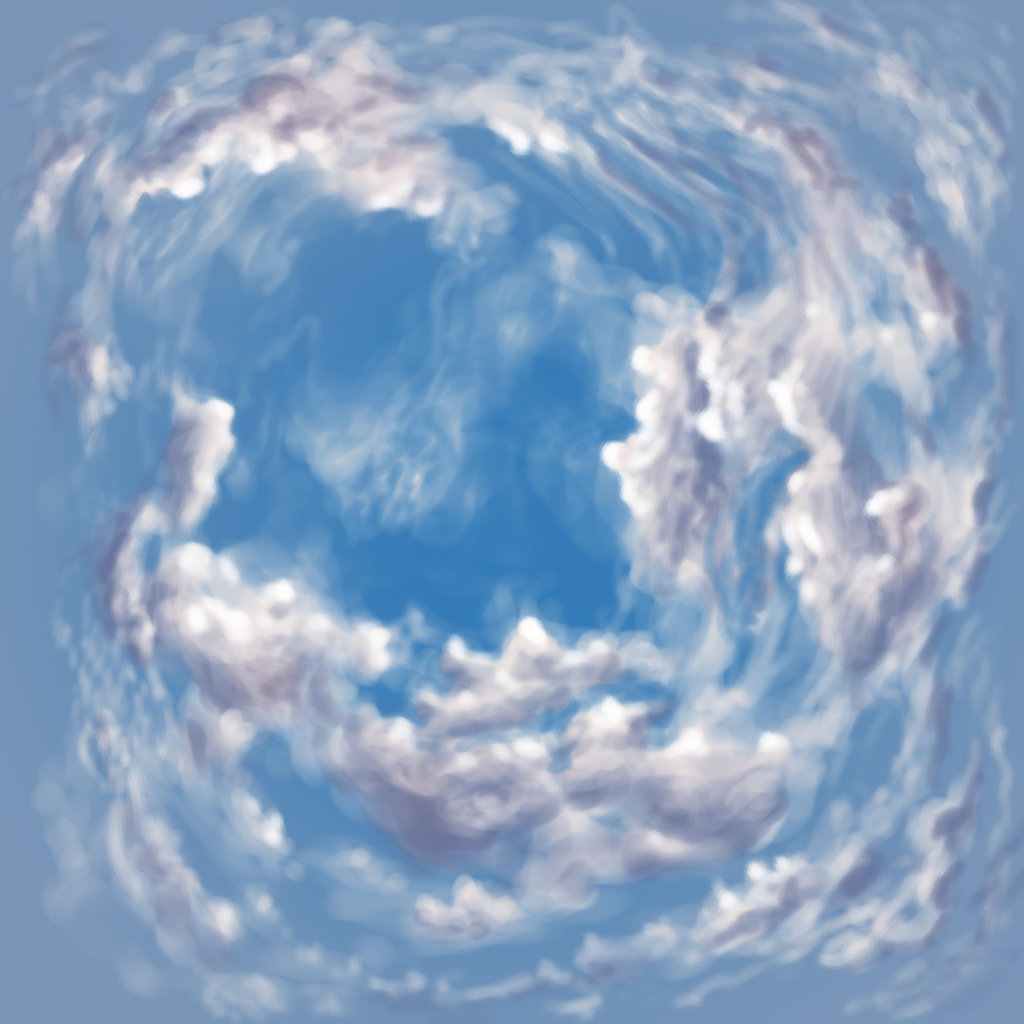
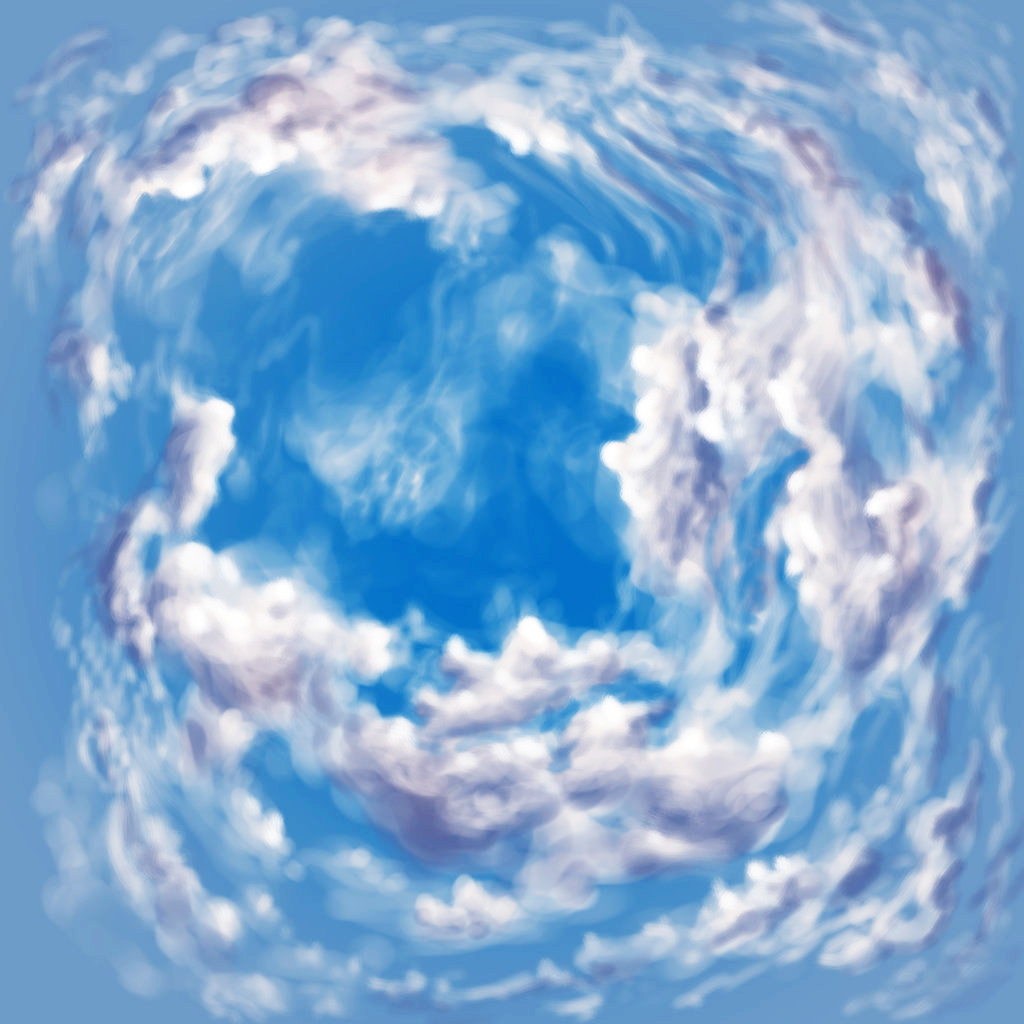
Sky lighting

diff --git a/app/index.html b/app/index.html
@@ -46,6 +46,7 @@
             uniform sampler2D uSampler;
 
             uniform int multiTex;
+            uniform int lightingOn;
 
             uniform TerrainRegion region1;
             uniform TerrainRegion region2;
@@ -186,7 +187,11 @@
                     textureColor += regionWeight * texture2D(region5Texture, vec2(vTextureCoord.s, vTextureCoord.t));
                 }
 
-                gl_FragColor = vec4(textureColor.rgb * vLightWeighting, textureColor.a);
+                if (lightingOn == 1)
+                    gl_FragColor = vec4(textureColor.rgb * vLightWeighting, textureColor.a);
+                else
+                    gl_FragColor = vec4(textureColor.rgb, textureColor.a);
+                    
             }
         </script>
 
@@ -200,6 +205,7 @@
             uniform mediump mat4 uPMatrix;
 
             uniform mediump float uCameraRotY;
+            uniform mediump float uCameraRotX;
 
             varying vec3 vLightWeighting;
             varying vec2 vTextureCoord;

diff --git a/app/shapes/Shape.js b/app/shapes/Shape.js
@@ -50,6 +50,8 @@ function Shape (vertices, normals, texture_info, vertex_indices) {
     this.vertices_index_buffer.length = vertex_indices.length; // necessary when drawing later
     gl.bindBuffer(gl.ELEMENT_ARRAY_BUFFER, this.vertices_index_buffer);
     gl.bufferData(gl.ELEMENT_ARRAY_BUFFER, new Uint16Array(vertex_indices), gl.STATIC_DRAW);
+
+    this.lighting = true;
 }
 
 Shape.prototype.update = function() {
@@ -97,6 +99,9 @@ Shape.prototype.draw = function() {
             gl.uniform1i(this.multitexture[i].uniform, i);
         }
     }
+
+
+    gl.uniform1i(shaderProgram.lighting, this.lighting);
 
     // Draw the cube.
     gl.bindBuffer(gl.ELEMENT_ARRAY_BUFFER, this.vertices_index_buffer);

diff --git a/app/initShaders.js b/app/initShaders.js
@@ -58,6 +58,7 @@ function initShaders() {
     shaderProgram.r5Tex = gl.getUniformLocation(shaderProgram, "region5Texture");
 
     shaderProgram.multi = gl.getUniformLocation(shaderProgram, "multiTex");
+    shaderProgram.lighting = gl.getUniformLocation(shaderProgram, "lightingOn");
 
     gl.uniform1f(shaderProgram.r1max, regions[0].max);
     gl.uniform1f(shaderProgram.r1min, regions[0].min);

diff --git a/app/tanks.js b/app/tanks.js
@@ -44,6 +44,8 @@ function start() {
             new Sphere({x: terrain.displacement.horizontal, y: 0, z: terrain.displacement.horizontal} , {x: 0, y: 0, z: 0}, {x: 300, y: 300, z: 300}, textures.sky),
         ];
 
+        shapes[2].lighting = false;
+
         tanks = [];
 
         projectiles = [];
